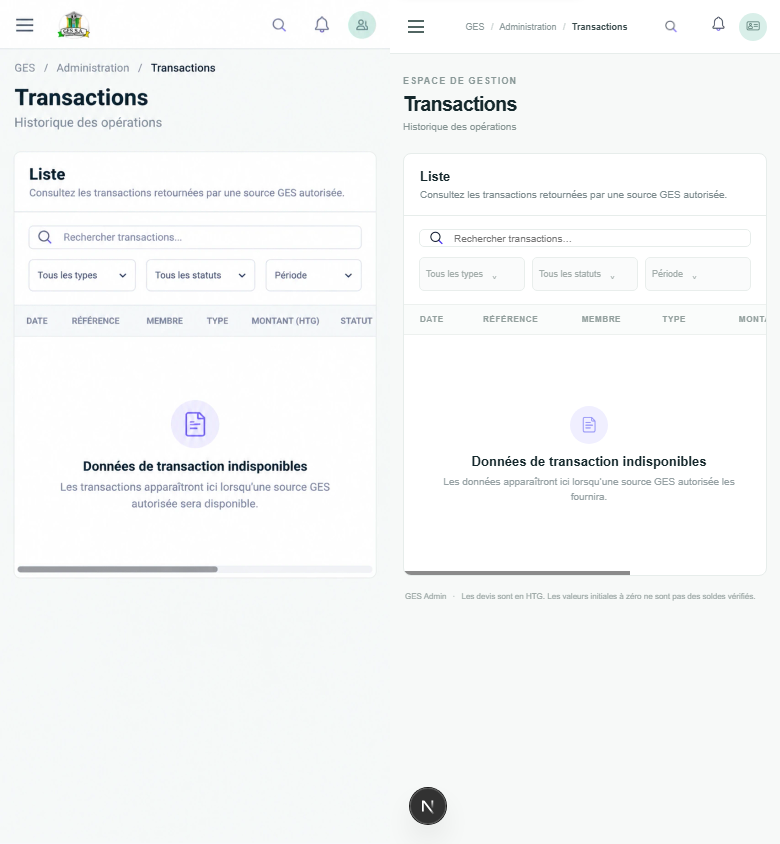
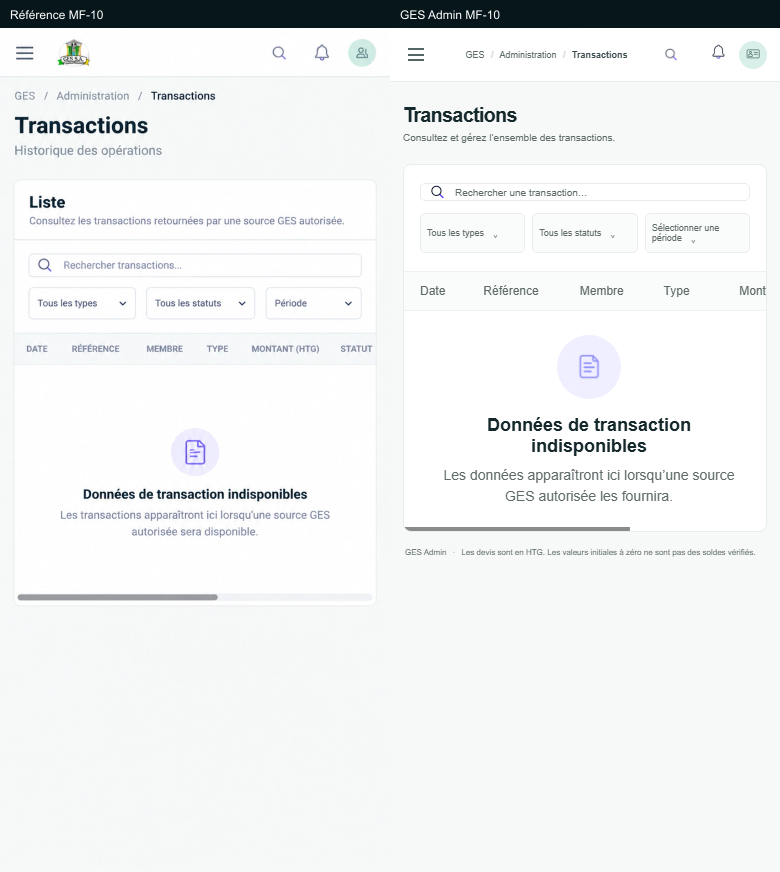
Align transaction list with MF-10 reference

diff --git a/components/admin-shell.tsx b/components/admin-shell.tsx
@@ -22,8 +22,8 @@ const groups = [
 
 const pages: Record<string, { title: string; subtitle: string }> = {
   "vue-generale": { title: "Centre de commandement", subtitle: "Vue d’ensemble de l’activité financière et opérationnelle de GES Admin." },
-  membres: { title: "Membres", subtitle: "Répertoire des membres" }, kyc: { title: "Conformité KYC", subtitle: "Vérification des dossiers" },
-  "vue-financiere": { title: "Vue financière générale", subtitle: "Aperçu de la position financière de GES Admin en HTG et USD." }, tresorerie: { title: "Trésorerie", subtitle: "Positions de trésorerie" }, transactions: { title: "Transactions", subtitle: "Historique des opérations" },
+  membres: { title: "Membres", subtitle: "Consultez et gérez les comptes membres." }, kyc: { title: "Conformité KYC", subtitle: "Vérification des dossiers" },
+  "vue-financiere": { title: "Vue financière générale", subtitle: "Aperçu de la position financière de GES Admin en HTG et USD." }, tresorerie: { title: "Trésorerie", subtitle: "Positions de trésorerie" }, transactions: { title: "Transactions", subtitle: "Consultez et gérez l’ensemble des transactions." },
   "depots-retraits": { title: "Dépôts et retraits", subtitle: "Suivi des mouvements entrants et sortants" }, "grand-livre": { title: "Grand livre et rapprochement", subtitle: "Consultation du grand livre comptable et rapprochement des soldes." }, plans: { title: "Plans d’investissement", subtitle: "Configuration des plans" },
   souscriptions: { title: "Souscriptions", subtitle: "Demandes de souscription" }, contrats: { title: "Contrats d’investissement", subtitle: "Registre des contrats d’investissement GES." }, echeances: { title: "Échéances", subtitle: "Calendrier des échéances" }, financements: { title: "Financements", subtitle: "Suivi des financements" }, "plans/nouveau": { title: "Nouveau plan d’investissement", subtitle: "Créer un nouveau plan d’investissement (brouillon)." },
   risques: { title: "Risques", subtitle: "Suivi des alertes et contrôles" }, documents: { title: "Documents", subtitle: "Bibliothèque documentaire" }, support: { title: "Support", subtitle: "Demandes d’assistance" }, rapports: { title: "Rapports", subtitle: "Rapports de gestion" }, equipe: { title: "Équipe", subtitle: "Accès et rôles de l’équipe" }, audit: { title: "Audit", subtitle: "Journal des actions administratives" }, parametres: { title: "Paramètres", subtitle: "Configuration de l’espace" }, notifications: { title: "Notifications", subtitle: "Centre de notifications administratives" }, "roles-permissions": { title: "Rôles et permissions", subtitle: "Les permissions effectives sont contrôlées côté serveur" }, "integrations-flexicash": { title: "Intégration FlexiCash", subtitle: "Les espaces GES et FlexiCash restent séparés" },
@@ -148,7 +148,7 @@ export function AdminShell({ section }: { section: string }) {
     </aside>
     {menuOpen && <button className="drawer-backdrop visible" type="button" aria-label="Fermer le menu" tabIndex={-1} onClick={closeMenu}/>}
     <main className="main-area" id="main-content" tabIndex={-1} inert={menuOpen}><header className="topbar"><button ref={menuButtonRef} className="mobile-menu-toggle" onClick={() => menuOpen ? closeMenu() : setMenuOpen(true)} aria-label={menuOpen ? "Fermer le menu" : "Ouvrir le menu"} aria-expanded={menuOpen} aria-controls="primary-navigation">{menuOpen ? <Image src="/assets/icons/close.webp" alt="" width={19} height={19}/> : <span className="menu-bars" aria-hidden="true"/>}</button><div className="breadcrumb">GES <span>/</span> Administration <span>/</span> <b>{page.title}</b></div><div className="top-actions"><label className="search"><Image src="/assets/icons/search.webp" alt="" width={15} height={15}/><input placeholder="Rechercher" aria-label="Rechercher" value={searchQuery} onChange={(event) => setSearchQuery(event.target.value)}/><kbd>⌘ K</kbd></label><Link href="/admin/notifications" className="bell" aria-label="Notifications"><Image src="/assets/icons/notification.webp" alt="" width={19} height={19}/></Link><div className="top-avatar"><Image src="/assets/icons/identity.webp" alt="" width={16} height={16}/></div></div></header>
-      <div className={`content ${key === "plans/nouveau" ? "plan-content" : ""}`}><div className="page-heading"><div><div className="eyebrow">ESPACE DE GESTION</div><h1>{page.title}</h1><p>{page.subtitle}</p></div><div className="heading-actions"><span className="status-pill preview-pill"><i/> Aperçu sans connexion aux données</span></div></div>
+      <div className={`content ${key === "plans/nouveau" ? "plan-content" : ""}`}><div className="page-heading"><div>{key !== "transactions" && <div className="eyebrow">ESPACE DE GESTION</div>}<h1>{page.title}</h1><p>{page.subtitle}</p></div><div className="heading-actions"><span className="status-pill preview-pill"><i/> Aperçu sans connexion aux données</span></div></div>
       {key === "notifications" ? <NotificationsWorkspace query={searchQuery} onQueryChange={setSearchQuery}/> : key === "plans/nouveau" ? <><Link href="/admin/plans" className="plan-back">← Retour aux plans</Link><PlanForm/></> : overview ? <>{financial && <div className="module-notice">Valeurs initiales — les montants affichés sont à confirmer et ne constituent pas des soldes vérifiés.</div>}<div className={`metric-grid ${financial ? "financial-metrics" : ""}`}>{metrics.map(([label,value,caption])=><MetricCard key={label} label={label} value={value} caption={caption}/>)}</div>
       {financial && <UsdUnavailable/>}
       <div className={`overview-grid ${financial ? "financial-overview-grid" : "command-overview-grid"}`}><section className="panel"><div className="panel-head"><div><h2>{financial ? "Tendance de trésorerie" : "Tendance financière"}</h2></div>{financial && <button className="select-button" disabled title="Les données sont indisponibles">Période⌄</button>}</div><div className="chart-empty"><div className="chart-lines"><span/><span/><span/><span/></div><div className="chart-message">Aucune donnée disponible</div></div></section><section className="panel breakdown"><div className="panel-head"><div><h2>{financial ? "Obligations à venir" : "Répartition des investissements"}</h2></div>{financial && <button className="dots" disabled aria-label="Options indisponibles">···</button>}</div>{financial ? <div className="donut-wrap"><p>Aucune donnée disponible</p></div> : <div className="donut-wrap"><div className="donut"><div/></div><p>Aucune donnée disponible</p></div>}</section></div>

diff --git a/components/module-workspace.tsx b/components/module-workspace.tsx
@@ -9,6 +9,7 @@ type ModulePage = {
   empty: string;
   filters: string[];
   description: string;
+  searchPlaceholder?: string;
   tabs?: string[];
   action?: { label: string; href: string };
 };
@@ -16,7 +17,7 @@ type ModulePage = {
 const pages: Record<string, ModulePage> = {
   membres: { description: "Consultez les comptes membres retournés par une source GES autorisée.", filters: ["Tous les statuts", "Tous les états KYC", "Trier par"], columns: ["MEMBRE", "STATUT DU COMPTE", "STATUT KYC", "DATE D’ADHÉSION", "PORTEFEUILLE", "ACTIONS"], empty: "Données de membre indisponibles" },
   kyc: { description: "Consultez les dossiers de vérification retournés par une source GES autorisée.", filters: ["Tous les dossiers", "Tous les statuts"], columns: ["PRIORITÉ", "DOSSIER", "DATE DE SOUMISSION", "RÉVISEUR", "STATUT", "ACTIONS"], empty: "Données KYC indisponibles" },
-  transactions: { description: "Consultez les transactions retournées par une source GES autorisée.", filters: ["Tous les types", "Tous les statuts", "Période"], columns: ["DATE", "RÉFÉRENCE", "MEMBRE", "TYPE", "MONTANT (HTG)", "STATUT", "ACTIONS"], empty: "Données de transaction indisponibles" },
+  transactions: { description: "Consultez les transactions retournées par une source GES autorisée.", searchPlaceholder: "Rechercher une transaction…", filters: ["Tous les types", "Tous les statuts", "Sélectionner une période"], columns: ["Date", "Référence", "Membre", "Type", "Montant (HTG)", "Statut", "Actions"], empty: "Données de transaction indisponibles" },
   "depots-retraits": { description: "Suivez les dépôts et retraits liés aux opérations GES.", filters: ["Tous les statuts", "Période"], tabs: ["Toutes les opérations", "Dépôts", "Retraits"], columns: ["DATE", "RÉFÉRENCE", "MEMBRE", "TYPE", "MONTANT (HTG)", "STATUT"], empty: "Données opérationnelles indisponibles" },
   plans: { description: "Catalogue des plans d’investissement autorisés sur GES Admin.", filters: ["Tous les statuts", "Catégorie"], columns: ["PLAN", "DEVISE", "RENDEMENT", "DURÉE", "STATUT", "ACTIONS"], empty: "Données des plans indisponibles", action: { label: "Nouveau plan", href: "/admin/plans/nouveau" } },
   souscriptions: { description: "Consultez les souscriptions retournées par une source GES autorisée.", filters: ["Tous les statuts", "Tous les plans"], columns: ["DATE", "PLAN", "MEMBRE", "MONTANT INVESTI (HTG)", "STATUT", "ACTIONS"], empty: "Données de souscription indisponibles" },
@@ -74,5 +75,5 @@ export function ModuleWorkspace({ sectionKey, query, onQueryChange }: { sectionK
 }
 
 function GenericTable({ sectionKey, page, query, onQueryChange, activeTab, setActiveTab }: { sectionKey: string; page: ModulePage; query: string; onQueryChange: (value: string) => void; activeTab: number; setActiveTab: (value: number) => void }) {
-  return <section className="panel list-panel module-list-panel"><div className="module-panel-header"><div><h2>{sectionKey === "plans" ? "Catalogue des plans" : sectionKey === "depots-retraits" ? "Opérations" : "Liste"}</h2><p>{page.description}</p></div>{page.action && <Link className="primary-button" href={page.action.href}>{page.action.label}</Link>}</div>{page.tabs && <div className="module-tabs">{page.tabs.map((tab, index) => <button key={tab} className={activeTab === index ? "selected" : ""} onClick={() => setActiveTab(index)}>{tab}</button>)}</div>}<div className="module-toolbar"><label className="filter-search"><Image src="/assets/icons/search.webp" alt="" width={16} height={16}/><input aria-label={`Rechercher dans ${sectionKey}`} placeholder={`Rechercher ${sectionKey.replaceAll("-", " ")}…`} value={query} onChange={(event) => onQueryChange(event.target.value)}/></label><div className="module-filter-row">{page.filters.map((filter) => <button key={filter} className="filter-button" disabled>{filter}<span>⌄</span></button>)}</div></div><div className="table-wrap"><table><thead><tr>{page.columns.map((column, index) => <th key={column} className={column.includes("HTG") ? "align-right" : ""}>{column}</th>)}</tr></thead><tbody><tr><td colSpan={page.columns.length}><EmptyState title={page.empty} searching={query.trim().length > 0}/></td></tr></tbody></table></div></section>;
+  return <section className="panel list-panel module-list-panel">{page.action && <div className="module-panel-header"><div><h2>Catalogue des plans</h2><p>{page.description}</p></div><Link className="primary-button" href={page.action.href}>{page.action.label}</Link></div>}{page.tabs && <div className="module-tabs">{page.tabs.map((tab, index) => <button key={tab} className={activeTab === index ? "selected" : ""} onClick={() => setActiveTab(index)}>{tab}</button>)}</div>}<div className="module-toolbar"><label className="filter-search"><Image src="/assets/icons/search.webp" alt="" width={16} height={16}/><input aria-label={`Rechercher dans ${sectionKey}`} placeholder={page.searchPlaceholder ?? `Rechercher ${sectionKey.replaceAll("-", " ")}…`} value={query} onChange={(event) => onQueryChange(event.target.value)}/></label><div className="module-filter-row">{page.filters.map((filter) => <button key={filter} className="filter-button" disabled>{filter}<span>⌄</span></button>)}</div></div><div className="table-wrap"><table><thead><tr>{page.columns.map((column, index) => <th key={column} className={column.includes("HTG") ? "align-right" : ""}>{column}</th>)}</tr></thead><tbody><tr><td colSpan={page.columns.length}><EmptyState title={page.empty} searching={query.trim().length > 0}/></td></tr></tbody></table></div></section>;
 }

diff --git a/app/globals.css b/app/globals.css
@@ -33,6 +33,8 @@
 .calendar-empty{display:block;padding:12px}.calendar-weekdays,.calendar-blank-grid{display:grid;grid-template-columns:repeat(7,minmax(0,1fr))}.calendar-weekdays{border:1px solid var(--line);border-bottom:0}.calendar-weekdays span{padding:10px 3px;text-align:center;font-size:9px;color:#778582}.calendar-blank-grid{grid-template-rows:repeat(5,34px);border-left:1px solid var(--line)}.calendar-blank-grid span{border-right:1px solid var(--line);border-bottom:1px solid var(--line)}.calendar-empty .module-empty{min-height:90px;height:auto}.gate-mark{overflow:hidden}.gate-mark img{object-fit:contain}
 @media(max-width:600px){.gate{padding:18px}.gate-card{padding:28px 20px}.gate-mark,.gate-mark img{width:88px;height:80px}.gate-mark{margin-bottom:18px}.gate-card h1{font-size:27px}.gate-card>p{font-size:14px}.auth-form{gap:14px;margin-top:22px}.auth-form label{font-size:13px}.auth-form input{height:50px;font-size:15px}.auth-form .gate-button{min-height:50px;font-size:15px}.gate-card small{font-size:11px}}
 .calendar-weekdays,.calendar-blank-grid{width:100%;justify-self:stretch;box-sizing:border-box}
+.module-toolbar{padding:18px 16px;gap:12px}.module-toolbar .filter-search{height:42px;max-width:360px}.module-filter-row .filter-button{height:42px;min-width:160px}.module-list-panel .module-empty{min-height:450px}.module-list-panel th{font-size:10px;padding-top:12px;padding-bottom:12px}@media(min-width:761px){.page-heading h1{font-size:30px}.page-heading p{font-size:14px}.eyebrow{font-size:10px}}@media(max-width:760px){.module-toolbar .filter-search{height:42px;max-width:none}.module-filter-row .filter-button{height:40px;min-width:105px}.module-list-panel .module-empty{min-height:220px}}
+.module-list-panel th{text-transform:none;letter-spacing:0;font-size:12px;font-weight:500}.module-list-panel .module-empty-icon{height:64px;width:64px;margin-bottom:16px}.module-list-panel .module-empty-icon img{width:30px;height:30px}.module-list-panel .module-empty h2{font-size:18px;margin-bottom:8px}.module-list-panel .module-empty p{font-size:14px;max-width:580px}@media(min-width:901px){.sidebar{width:252px}.main-area{margin-left:252px}.topbar{height:76px;padding:0 28px}.content{padding:24px 28px}}
 .selected-row-demo,.menu-demo{background:#f7f9ff}.selected-row-sample{height:36px;width:100%;display:flex;align-items:center;gap:8px;padding:0 9px;border:1px solid #dce1ff;border-radius:4px;background:#eff1ff}.selected-row-sample i{width:8px;height:8px;border-radius:50%;background:#645cff}.selected-row-sample span{height:6px;border-radius:6px;background:#d4d8eb;flex:1}.selected-row-sample span:last-child{max-width:28%}.state-menu-items{display:flex;gap:4px}.state-menu-items button{padding:5px 7px;border:1px solid #dce2e1;border-radius:4px;background:#fff;color:#71807d;font:9px Arial,sans-serif}
 .skip-link{position:fixed;top:8px;left:8px;z-index:20;padding:10px 14px;border-radius:6px;background:#fff;color:#07161a;box-shadow:0 2px 12px #07161a30;transform:translateY(-150%)}.skip-link:focus{transform:translateY(0)}
 a:focus-visible,button:focus-visible,input:focus-visible,select:focus-visible,textarea:focus-visible{outline:3px solid #087d69;outline-offset:2px}

diff --git a/design/qa/README.md b/design/qa/README.md
@@ -139,4 +139,6 @@ Revue MF-15 ouverte du 29 octobre 2026 : le formulaire aligne les six paramètre
 
 MF-15 mobile pleine page en état par défaut : la nouvelle référence v2 est `../responsive/exports-webp/MF-15-plan-form-responsive-v2.webp`; comparaison du frame complet et de la capture navigateur dans `frame-review/MF-15-mobile-fullpage-comparison.png`. La capture réelle fait 390 × 1367 px; les six contrôles numériques, dont l’intervalle caché dans son panneau fermé, valent `0`, la devise est HTG, les champs texte restent vides et les deux actions sont visibles et désactivées. Le document mesure 375 px sur le viewport client de 375 px, sans débordement horizontal.
 
+Révision MF-10 du 29 octobre : le panneau de liste ne répète plus le titre et la description, les filtres et l’en-tête de tableau reprennent les libellés de la référence, et l’état vide conserve explicitement l’indisponibilité des transactions. Captures de l’application : `admin-transactions-1440x1000.png` et `admin-transactions-390x844.png`; comparaisons desktop dans `frame-review/app-vs-reference/comparison-03.png` et mobile dans `frame-review/MF-10-transactions-mobile-review.png`. Le contrôle Chrome rapporte un titre « Transactions », l’état de données indisponibles, `scrollWidth` égal à 1440 px et 390 px respectivement; les montants de tableau restent libellés en HTG et aucune transaction n’est inventée. La comparaison mobile laisse des écarts de shell et de copie avec la proposition; MF-10 reste à revoir, non verrouillé.
+
 Reverification MF-15 du 29 octobre : états desktop replié (1440 × 1100), ouvert (1440 × 1350) et mobile pleine page (390 × 1367) capturés. Comparaisons desktop `comparison-mf15-default.png` et `comparison-mf15-open.png`; comparaison mobile `frame-review/MF-15-mobile-fullpage-comparison.png`. Le navigateur confirme HTG, six valeurs numériques à zéro, saisies textuelles vides, exactement deux actions visibles et désactivées, et les quatre panneaux dans l’état attendu. Pas de débordement horizontal; shell et typographie conservent des écarts visuels, les références restent proposées.

diff --git a/design/project-status.md b/design/project-status.md
@@ -1,5 +1,7 @@
 # Suivi GES Admin
 
+Révision MF-10 : captures desktop (1440 × 1000) et mobile (390 × 844) regénérées après alignement du panneau, des filtres et des colonnes. Chrome confirme l’état vide sans transactions et l’absence de débordement horizontal aux deux tailles. Les valeurs financières restent en HTG, sans montant fictif; voir `design/qa/README.md` et `design/qa/frame-review/MF-10-transactions-mobile-review.png`.
+
 Le brief intégral a été lu. La consigne du propriétaire prévaut : aucun chiffre métier ni identité fictive n’est injecté. Les devis et champs financiers de saisie sont en HTG; les champs numériques du formulaire de plan commencent à zéro. Les soldes initiaux à zéro sont marqués non confirmés. Une source absente reste indisponible, jamais un solde nul vérifié.
 
 ## État au 29 octobre 2026
